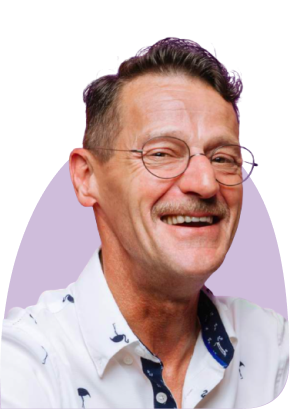
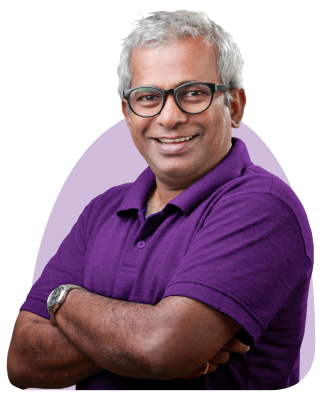
refactor(home): New senior images

diff --git a/lib/home_page.dart b/lib/home_page.dart
@@ -17,7 +17,7 @@ class HomePageState extends State<HomePage> {
   bool isDarkTheme = false;
 
   changeThemeCounter() {
-    if (themeCounter < 7) {
+    if (themeCounter < 5) {
       setState(() {
         themeCounter++;
       });
@@ -47,71 +47,62 @@ class HomePageState extends State<HomePage> {
                 mainAxisAlignment: MainAxisAlignment.start,
                 children: [
                   SizedBox(
-                    height: 10,
+                    height: 20,
                   ),
                   GestureDetector(
                     child: Image.asset(
                       'assets/images/home_senior_$themeCounter.png',
-                      height: MediaQuery.of(context).size.height / 2.4,
+                      height: MediaQuery.of(context).size.height / 2.3,
                       fit: BoxFit.scaleDown,
                     ),
                     onTap: changeThemeCounter,
                   ),
                   Padding(
-                    padding: const EdgeInsets.only(top: 60, bottom: 20),
+                    padding: const EdgeInsets.only(top: 60, bottom: 40),
                     child: Image.asset('assets/images/logo.png'),
                   ),
-                  Padding(
-                    padding: const EdgeInsets.all(24),
-                    child: SizedBox(
-                      width: 324,
-                      height: 60,
-                      child: CustomButton1(
-                          label: 'Já tenho uma conta',
-                          primary: themeCounter == 5
-                              ? VivassimoTheme.white
-                              : VivassimoTheme.purple,
-                          onPrimary: themeCounter == 5
+                  SizedBox(
+                    width: 324,
+                    height: 60,
+                    child: CustomButton1(
+                        label: 'Já tenho uma conta',
+                        primary: VivassimoTheme.purple,
+                        onPrimary: VivassimoTheme.white,
+                        borderColor: VivassimoTheme.purple,
+                        onPressed: () {
+                          Navigator.of(context).pushNamed('/login');
+                        }),
+                  ),
+                  SizedBox(
+                    height: 40,
+                  ),
+                  SizedBox(
+                    width: 324,
+                    height: 60,
+                    child: OutlinedButton(
+                      onPressed: () {
+                        Navigator.of(context)
+                            .pushNamed('/register/acceptTerms');
+                      },
+                      child: Text(
+                        'Não tenho uma conta',
+                        style: customTextStyle(
+                          FontWeight.w700,
+                          23,
+                          themeCounter == 2 || themeCounter == 3
                               ? VivassimoTheme.purple
                               : VivassimoTheme.white,
-                          borderColor: themeCounter == 5
-                              ? VivassimoTheme.white
-                              : VivassimoTheme.purple,
-                          onPressed: () {
-                            Navigator.of(context).pushNamed('/login');
-                          }),
-                    ),
-                  ),
-                  Padding(
-                    padding: const EdgeInsets.all(24),
-                    child: SizedBox(
-                      width: 324,
-                      height: 60,
-                      child: OutlinedButton(
-                        onPressed: () {
-                          Navigator.of(context)
-                              .pushNamed('/register/acceptTerms');
-                        },
-                        child: Text(
-                          'Não tenho uma conta',
-                          style: customTextStyle(
-                            FontWeight.w700,
-                            23,
-                            themeCounter == 2 || themeCounter == 3
-                                ? VivassimoTheme.purple
-                                : VivassimoTheme.white,
-                          ),
                         ),
-                        style: OutlinedButton.styleFrom(
-                          side: BorderSide(
-                            width: 2.0,
-                            color: themeCounter == 2 || themeCounter == 3
-                                ? VivassimoTheme.purple
-                                : VivassimoTheme.white,
-                          ),
-                          shape: RoundedRectangleBorder(
-                            borderRadius: BorderRadius.circular(10),
-                          ),
+                      ),
+                      style: OutlinedButton.styleFrom(
+                        side: BorderSide(
+                          width: 2.0,
+                          color: themeCounter == 2 || themeCounter == 3
+                              ? VivassimoTheme.purple
+                              : VivassimoTheme.white,
+                        ),
+                        shape: RoundedRectangleBorder(
+                          borderRadius: BorderRadius.circular(10),
                         ),
                       ),
                     ),
